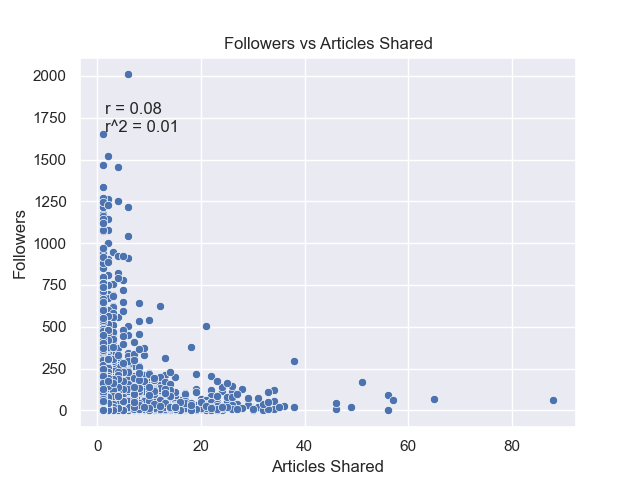
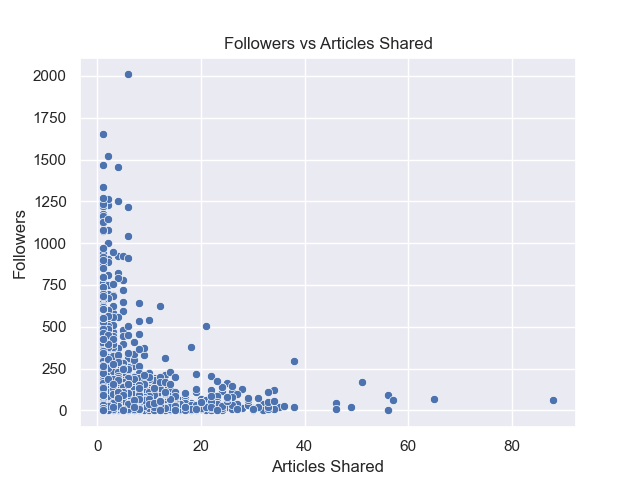
got rid of r and r2 within the scatterplots

diff --git a/visualization/scatterplots/create_scatterplot.py b/visualization/scatterplots/create_scatterplot.py
@@ -6,7 +6,6 @@
 
 """
 
-import scipy as sp
 import seaborn as sns
 import matplotlib.pyplot as plt
 import pandas as pd
@@ -14,7 +13,7 @@ from visualization.directory_finder import get_file_to_export_path
 
 
 def create_scatterplot(points: list[tuple[int, int]], x_label: str, y_label: str, title: str,
-                       file_name: str, r_and_r2_loc: tuple[int, int] = (0.05, 0.8)):
+                       file_name: str):
     """ Creates a scatterplot of `points`.
 
     Args:
@@ -23,7 +22,6 @@ def create_scatterplot(points: list[tuple[int, int]], x_label: str, y_label: str
         x_label (str):  The label for the x-axis.
         y_label (str):  The label for the y-axis.
     """
-    r, r2 = get_r_and_r2(points)
 
     sns.set_theme()
     data = pd.DataFrame(points, columns=[x_label, y_label])
@@ -33,36 +31,13 @@ def create_scatterplot(points: list[tuple[int, int]], x_label: str, y_label: str
         x=x_label, y=y_label,
     ).set(title=title)
 
-    ax = plt.gca()
-    plt.text(r_and_r2_loc[0], r_and_r2_loc[1],
-             f"r = {r:0.2f}\nr^2 = {r2:0.2f}", transform=ax.transAxes)
-
     plt.savefig(get_file_to_export_path(file_name, "scatterplot"))
 
 
-def get_r_and_r2(points: list[tuple[int, int]]):
-    """ Get the r and r^2 values for the points.
-
-    Args:
-        points (`list[tuple[int, int]]`):   A list of tuples with the x and y values for the 
-                                            scatterplot.
-
-    Returns:
-        `tuple[float, float]`:  A tuple with the r and r^2 values.
-    """
-    x = [point[0] for point in points]
-    y = [point[1] for point in points]
-
-    r, _ = sp.stats.pearsonr(x, y)
-    r2 = r**2
-
-    return r, r2
-
-
 def main():
-    """ Main function for testing the scatterplot functions.s"""
+    """ Main function for testing the scatterplot function."""
     create_scatterplot([(2001, 100000), (2002, 100000),
-                        (2003, 12103), (2004, 12093128)], 'year', 'income', "Test", "test", (0.05, 0.8))
+                        (2003, 12103), (2004, 12093128)], 'year', 'income', "Test", "test")
 
 
 if __name__ == '__main__':

diff --git a/visualization/scatterplots/p_fake_vs_authors/generate_stats/get_proportion_fake_per_num_authors.py b/visualization/scatterplots/p_fake_vs_authors/generate_stats/get_proportion_fake_per_num_authors.py
@@ -7,7 +7,7 @@
 """
 
 from visualization.utils import is_article_fake, get_all_article_ids
-from visualization.get_json_dict import database
+from visualization.get_json_dict import DATABASE
 
 SMALL_LIMIT = 1
 INTERVAL_SIZE = 1
@@ -21,16 +21,16 @@ def get_num_fake_real_per_num_authors(interval_size):
     """
     authors_dict = {}
 
-    for uid in get_all_article_ids(database):
+    for uid in get_all_article_ids(DATABASE):
         if is_article_fake(uid):
-            article_index = database["articles"]["fake-articles"]["ids"].index(
+            article_index = DATABASE["articles"]["fake-articles"]["ids"].index(
                 uid)
-            authors = len(database["articles"]
+            authors = len(DATABASE["articles"]
                           ["fake-articles"]["authors"][article_index])//interval_size
         else:
-            article_index = database["articles"]["real-articles"]["ids"].index(
+            article_index = DATABASE["articles"]["real-articles"]["ids"].index(
                 uid)
-            authors = len(database["articles"]
+            authors = len(DATABASE["articles"]
                           ["real-articles"]["authors"][article_index])//interval_size
 
         try:

diff --git a/visualization/scatterplots/p_fake_vs_shares/generate_stats/get_proportion_fake_per_share.py b/visualization/scatterplots/p_fake_vs_shares/generate_stats/get_proportion_fake_per_share.py
@@ -7,7 +7,7 @@
 """
 
 from visualization.utils import is_article_fake, get_all_article_ids
-from visualization.get_json_dict import database
+from visualization.get_json_dict import DATABASE
 
 SMALL_LIMIT = 3
 INTERVAL_SIZE = 50
@@ -21,8 +21,8 @@ def get_num_fake_real_per_share(interval_size):
     """
     shares_dict = {}
 
-    for uid in get_all_article_ids(database):
-        shares = database["articles"]["counts"][uid]["shares"]//interval_size
+    for uid in get_all_article_ids(DATABASE):
+        shares = DATABASE["articles"]["counts"][uid]["shares"]//interval_size
 
         try:
             shares_dict[shares]
